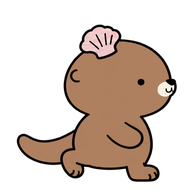
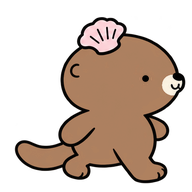
수대리가 팔을 흔들며 자연스럽게 걷고 뛰어요

Changed region(s): [[0.0625, 0.0625, 0.9688, 0.9688], [0.7188, 0.375, 0.7812, 0.4688]]

diff --git a/src/renderer/src/otter-frames.ts b/src/renderer/src/otter-frames.ts
@@ -1,5 +1,5 @@
 /// <reference types="vite/client" />
-// 확정 수달 캐릭터(손그림)의 프레임과 간격. 원본은 .sudal/otter-art/handdrawn/ 의 color-v3(기분)·move-v1(걷기·뛰기).
+// 확정 수달 캐릭터(손그림)의 프레임과 간격. 원본은 .sudal/otter-art/handdrawn/ 의 color-v3(기분)·move-v6(걷기·뛰기).
 // 192px 를 96 CSS px 로 그려 Retina 에서도 선명하다.
 import type { OtterMood, OtterMotion } from "@shared/otter";
 
@@ -13,8 +13,8 @@ const TIMING: Record<OtterMood | OtterMotion, number[]> = {
   done: [220, 180, 220, 550],
   error: [850, 280, 280, 700],
   limit: [1000, 400, 1000, 500],
-  walk: [140, 140, 140, 140],
-  run: [90, 90, 90, 90],
+  walk: [120, 120, 120, 120, 120, 120],
+  run: [100, 100, 100, 100, 100, 100],
 };
 
 export const OTTER_FRAMES: Record<OtterMood | OtterMotion, { src: string; ms: number }[]> = Object.fromEntries(

diff --git a/src/shared/otter.ts b/src/shared/otter.ts
@@ -24,11 +24,11 @@ export type OtterMood = "idle" | "working" | "waiting" | "done" | "error" | "lim
 export type OtterMotion = "walk" | "run";
 
 /**
- * 돌아다니기. 속도는 그림(96px 표시) 기준으로 발이 미끄러져 보이지 않는 값이라 고정이다 — .sudal/otter-art/handdrawn/move-v1/README.md.
+ * 돌아다니기. 속도는 그림(96px 표시) 기준으로 발이 미끄러져 보이지 않는 값이라 고정이다 — .sudal/otter-art/handdrawn/move-v5/README.md(move-v6 은 v5 의 눈·주둥이만 고친 것).
  * 거리는 거리 설정 100% 일 때의 값이다.
  */
 export const OTTER_ROAM = {
-  speed: { walk: 29, run: 78 } as Record<OtterMotion, number>,
+  speed: { walk: 15, run: 35 } as Record<OtterMotion, number>,
   distance: { walk: [80, 180], run: [200, 320] } as Record<OtterMotion, [number, number]>,
 };
 
